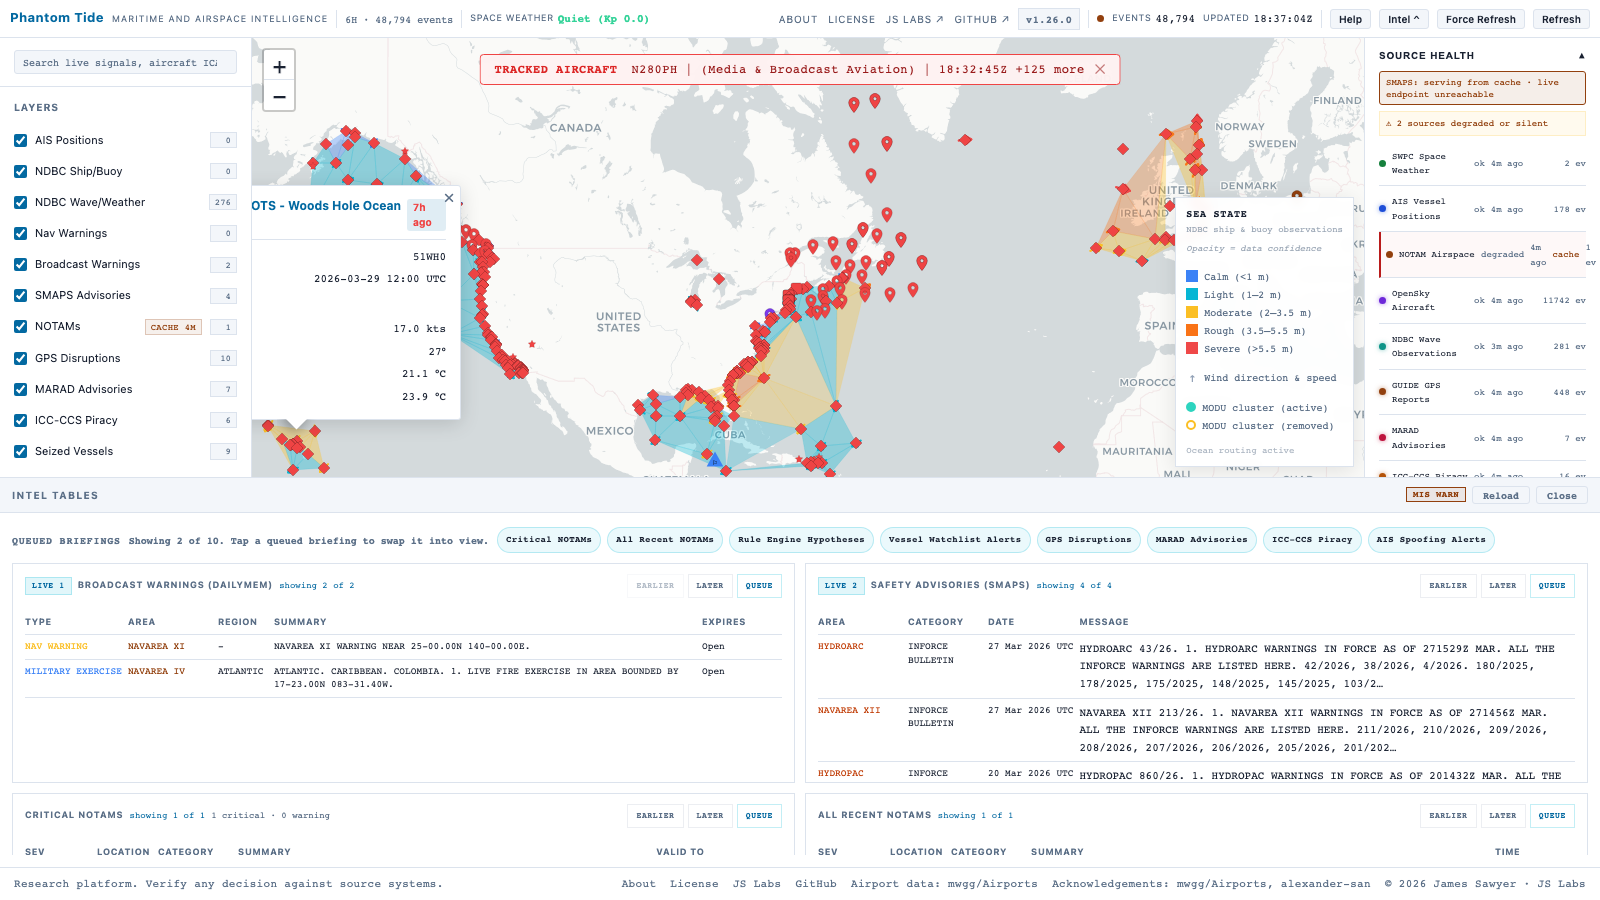
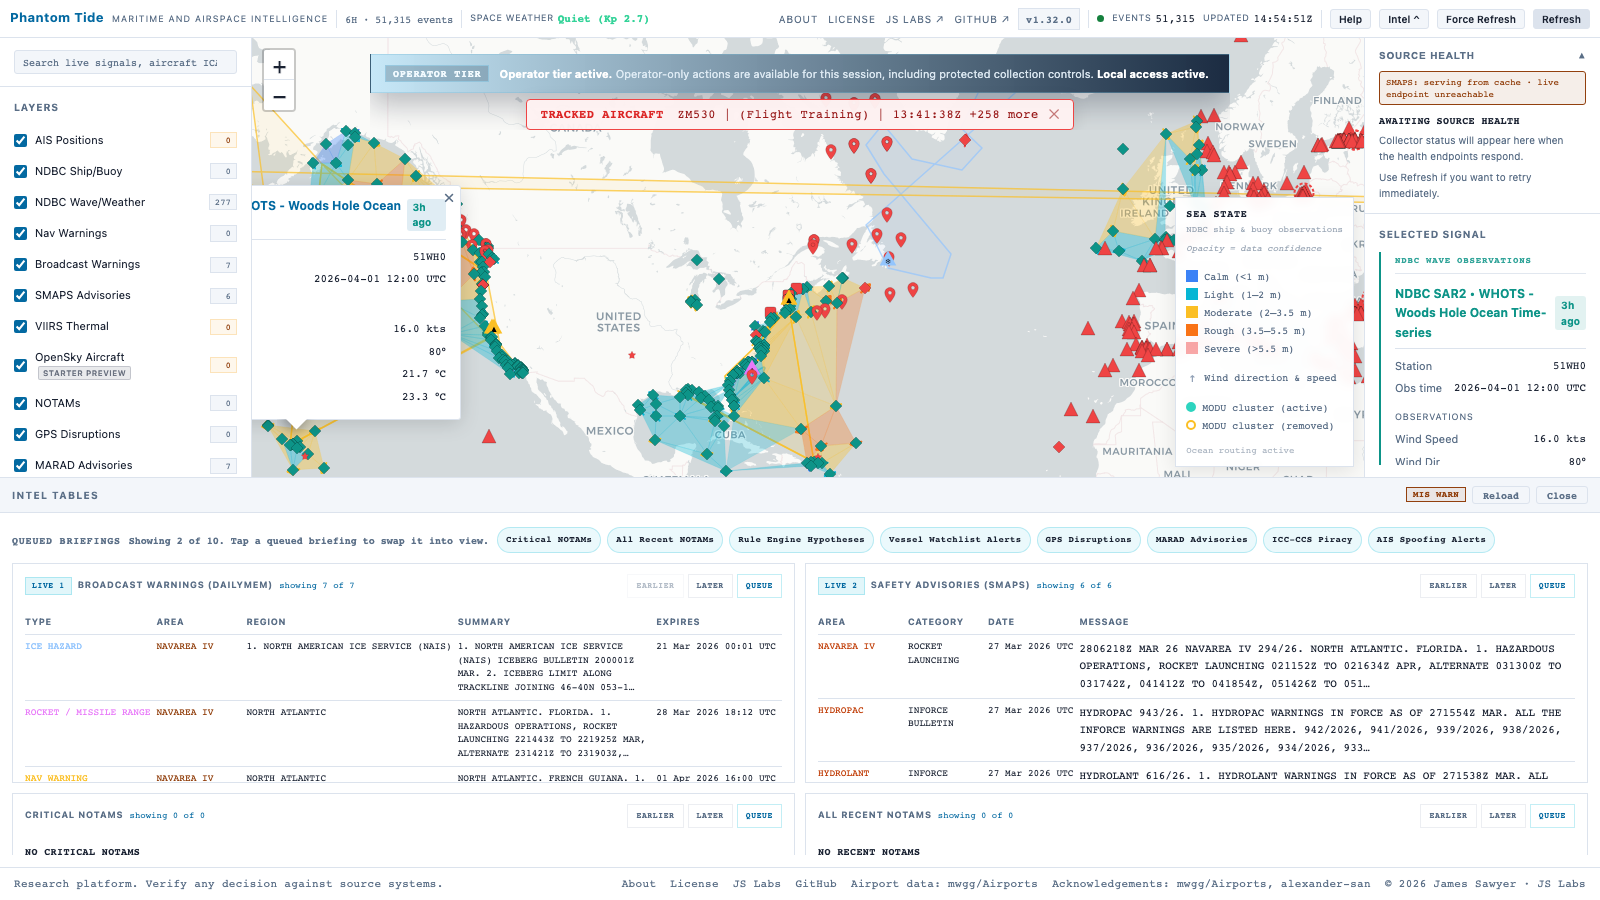
docs: refresh operator mode screenshots

diff --git a/docs/screenshots/take_screenshots.py b/docs/screenshots/take_screenshots.py
@@ -27,6 +27,77 @@ except ImportError:
 OUT_DIR = Path(__file__).parent
 DEFAULT_URL = "http://localhost:8000"
 VIEWPORT = {"width": 1600, "height": 900}
+DATA_WAIT_TIMEOUT_SECONDS = 120
+DATA_WAIT_POLL_SECONDS = 5
+
+
+def _dashboard_status(page: Page) -> dict[str, int | str]:
+    """Return a small snapshot of dashboard hydration state."""
+    return page.evaluate(
+        """() => {
+            const eventText = document.getElementById('hdrEventCount')?.textContent?.trim() || '--';
+            const layerCounts = Array.from(document.querySelectorAll('[id^="layer-count-"]'))
+              .map((el) => Number.parseInt((el.textContent || '0').replace(/,/g, ''), 10) || 0);
+            const nonZeroLayerCounts = layerCounts.filter((value) => value > 0).length;
+            const markerCount = document.querySelectorAll('.leaflet-marker-icon:not(.leaflet-marker-shadow)').length;
+            return {
+              eventText,
+              nonZeroLayerCounts,
+              markerCount,
+            };
+        }"""
+    )
+
+
+def wait_for_dashboard_data(page: Page, timeout_seconds: int = DATA_WAIT_TIMEOUT_SECONDS) -> None:
+    """Wait for dashboard counts to hydrate, with terminal countdown output."""
+    deadline = time.time() + timeout_seconds
+    while True:
+        status = _dashboard_status(page)
+        event_text = str(status["eventText"])
+        event_count = int(event_text.replace(",", "")) if event_text not in {"--", ""} and event_text.replace(",", "").isdigit() else 0
+        non_zero_layer_counts = int(status["nonZeroLayerCounts"])
+        marker_count = int(status["markerCount"])
+        if event_count > 0 and (non_zero_layer_counts > 0 or marker_count > 0):
+            print(
+                f"  dashboard ready: {event_count} events, {non_zero_layer_counts} non-zero layer counts, {marker_count} markers"
+            )
+            return
+
+        remaining = max(0, int(deadline - time.time()))
+        print(
+            f"  waiting for live data... {remaining:>3}s remaining "
+            f"(events={event_text}, non-zero layers={non_zero_layer_counts}, markers={marker_count})"
+        )
+        if remaining == 0:
+            print("  data wait timed out; continuing with best available dashboard state")
+            return
+        time.sleep(min(DATA_WAIT_POLL_SECONDS, remaining))
+
+
+def enable_all_layers(page: Page) -> None:
+    """Enable all available layer checkboxes for screenshot capture."""
+    toggled = page.evaluate(
+        """() => {
+            let toggled = 0;
+            for (const cb of document.querySelectorAll('.layer-toggles input[data-layer]')) {
+                if (!cb.disabled && !cb.checked) {
+                    cb.click();
+                    toggled += 1;
+                }
+            }
+            return toggled;
+        }"""
+    )
+    print(f"  enabled {toggled} additional layers")
+
+
+def prime_dashboard(page: Page) -> None:
+    """Turn on layers, request a refresh, and wait for hydrated data."""
+    enable_all_layers(page)
+    click_if_present(page, "#btn-refresh", delay=1.0)
+    wait_for_dashboard_data(page)
+    time.sleep(2.0)
 
 
 def wait_for_map(page: Page, extra_sleep: float = 3.0) -> None:
@@ -49,6 +120,7 @@ def go(page: Page, url: str, extra_sleep: float = 3.0) -> None:
     """Navigate to URL and wait for the map. Onboarding is suppressed by init script."""
     page.goto(url, wait_until="domcontentloaded", timeout=60_000)
     wait_for_map(page, extra_sleep=extra_sleep)
+    prime_dashboard(page)
 
 
 def take(page: Page, name: str) -> None:
